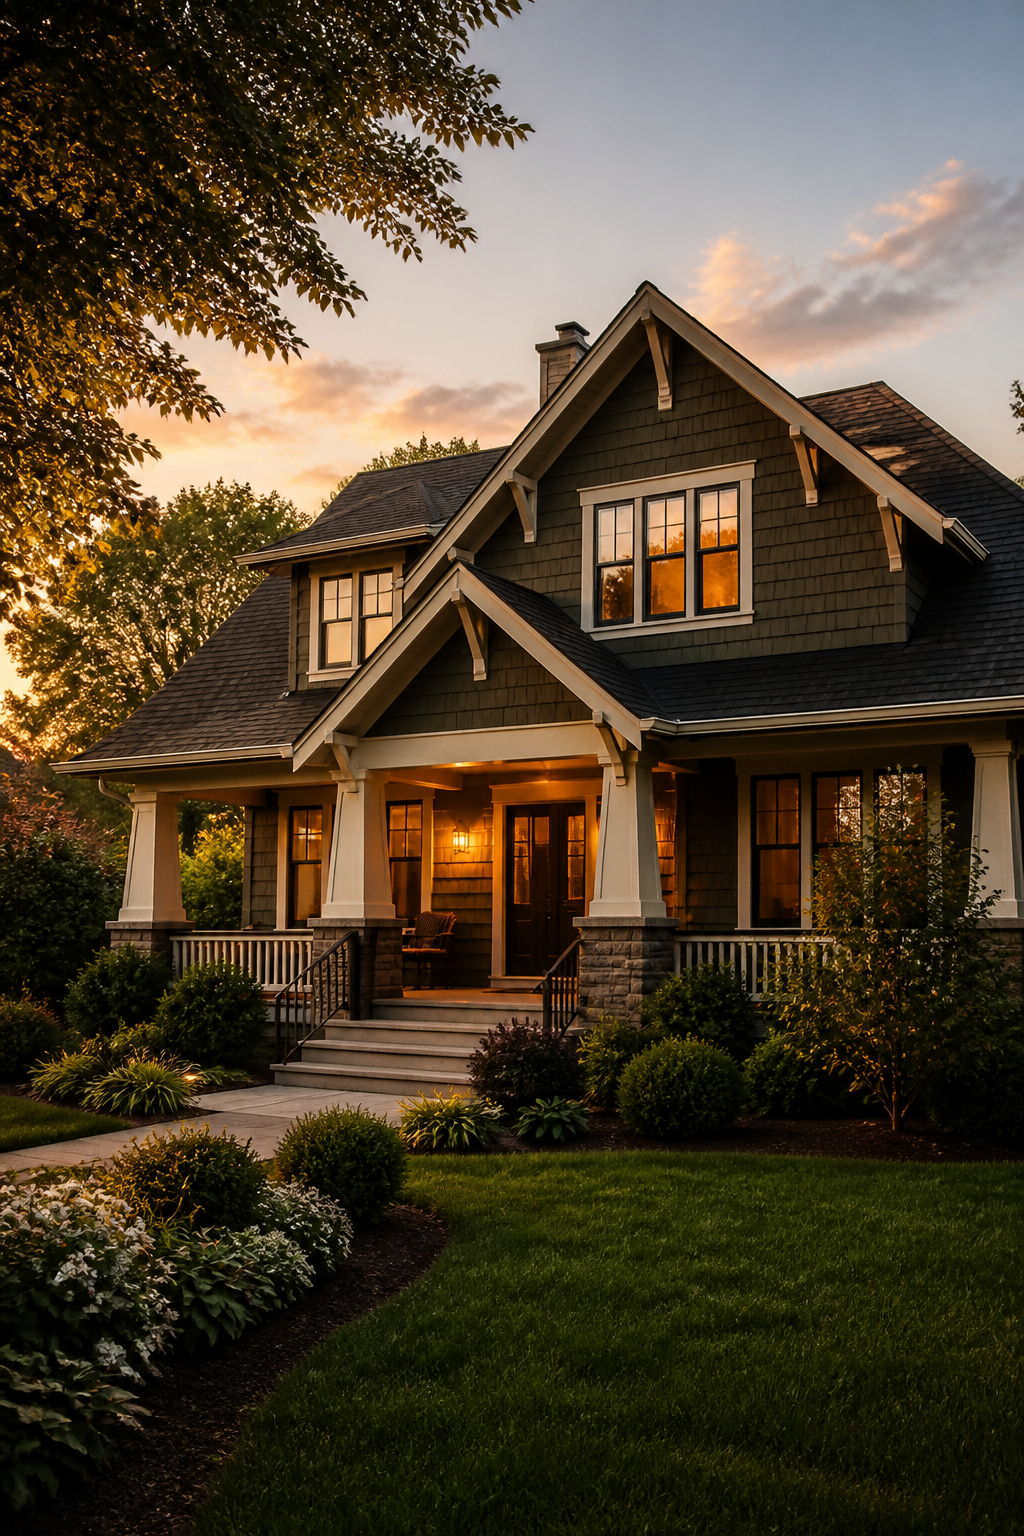
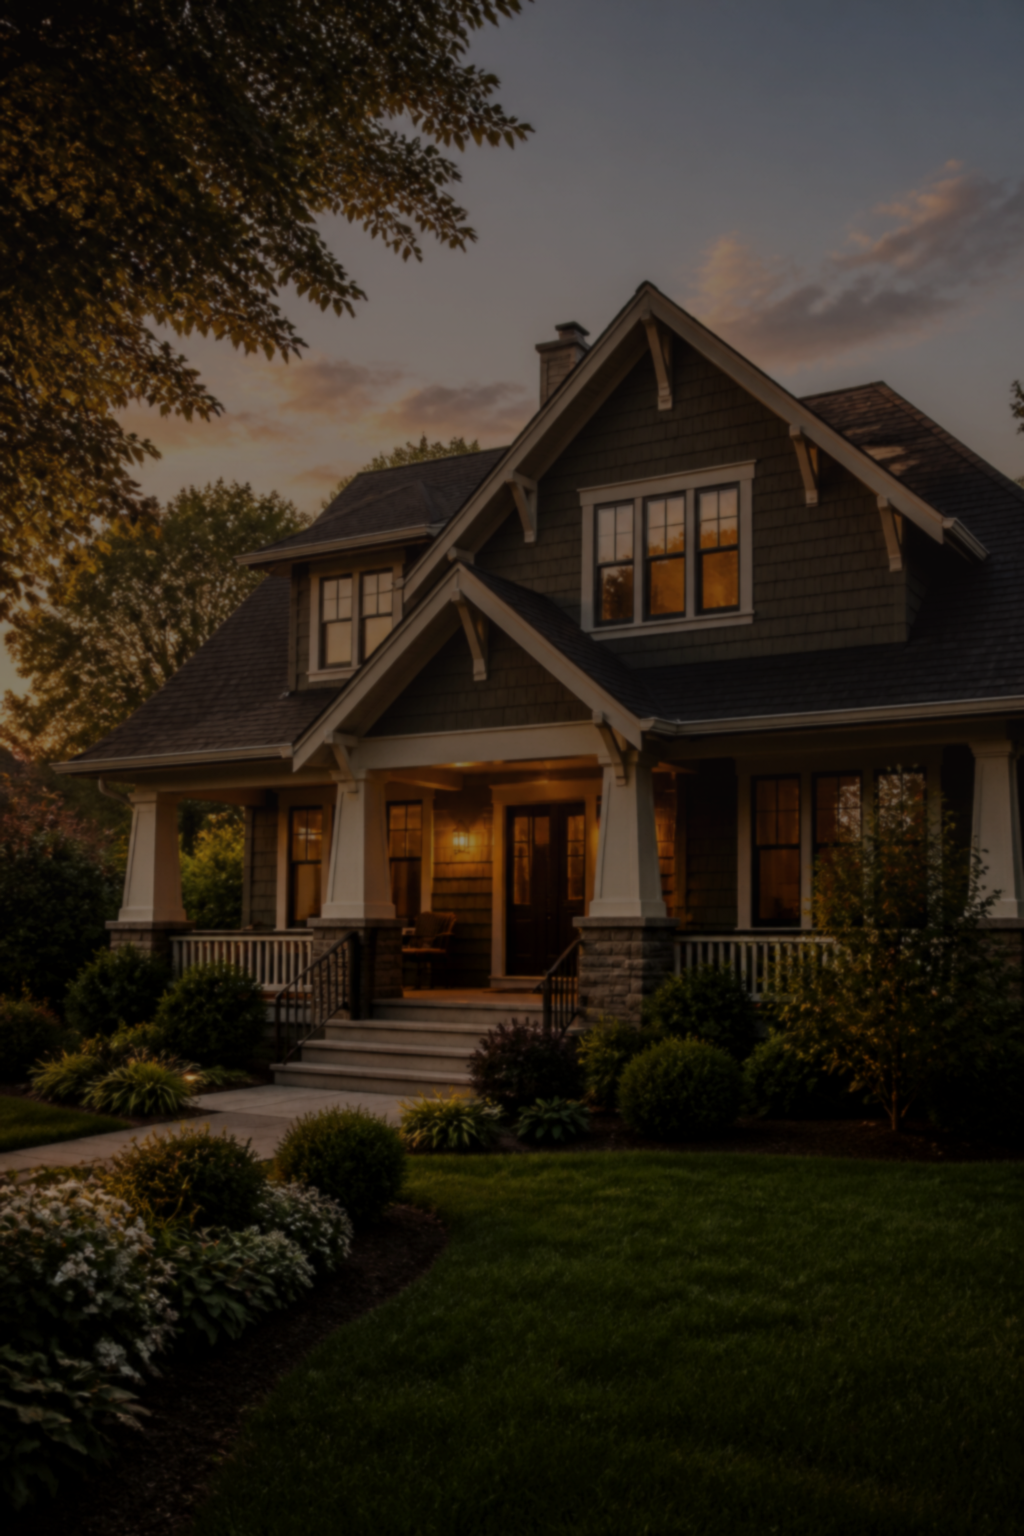
Darken Search scene so BFI page text stays clearer
Keep the craftsman golden-hour mood while softening hotspots and lifting the scene wash so titles and supporting copy read more easily.

diff --git a/bfi-app/src/screens/HomeScreen.tsx b/bfi-app/src/screens/HomeScreen.tsx
@@ -27,7 +27,7 @@ export function HomeScreen() {
   return (
     <AppShell
       scene="search"
-      sceneIntensity="soft"
+      sceneIntensity="medium"
       contentClassName="relative min-h-0 overflow-y-auto overscroll-contain text-night-ink"
     >
       <div className="relative flex flex-1 flex-col px-5 pb-4 pt-[max(0.5rem,calc(var(--bfi-status-pad)+0.35rem))]">

diff --git a/bfi-app/src/data/pageScenes.ts b/bfi-app/src/data/pageScenes.ts
@@ -21,7 +21,7 @@ export const PAGE_SCENES: Record<PageSceneId, PageScene> = {
   search: {
     id: 'search',
     src: '/scenes/bg-search.png',
-    alt: 'Welcoming craftsman home at golden hour',
+    alt: 'Warm craftsman home at dusk with softened glow for readable type',
   },
   watchlist: {
     id: 'watchlist',
